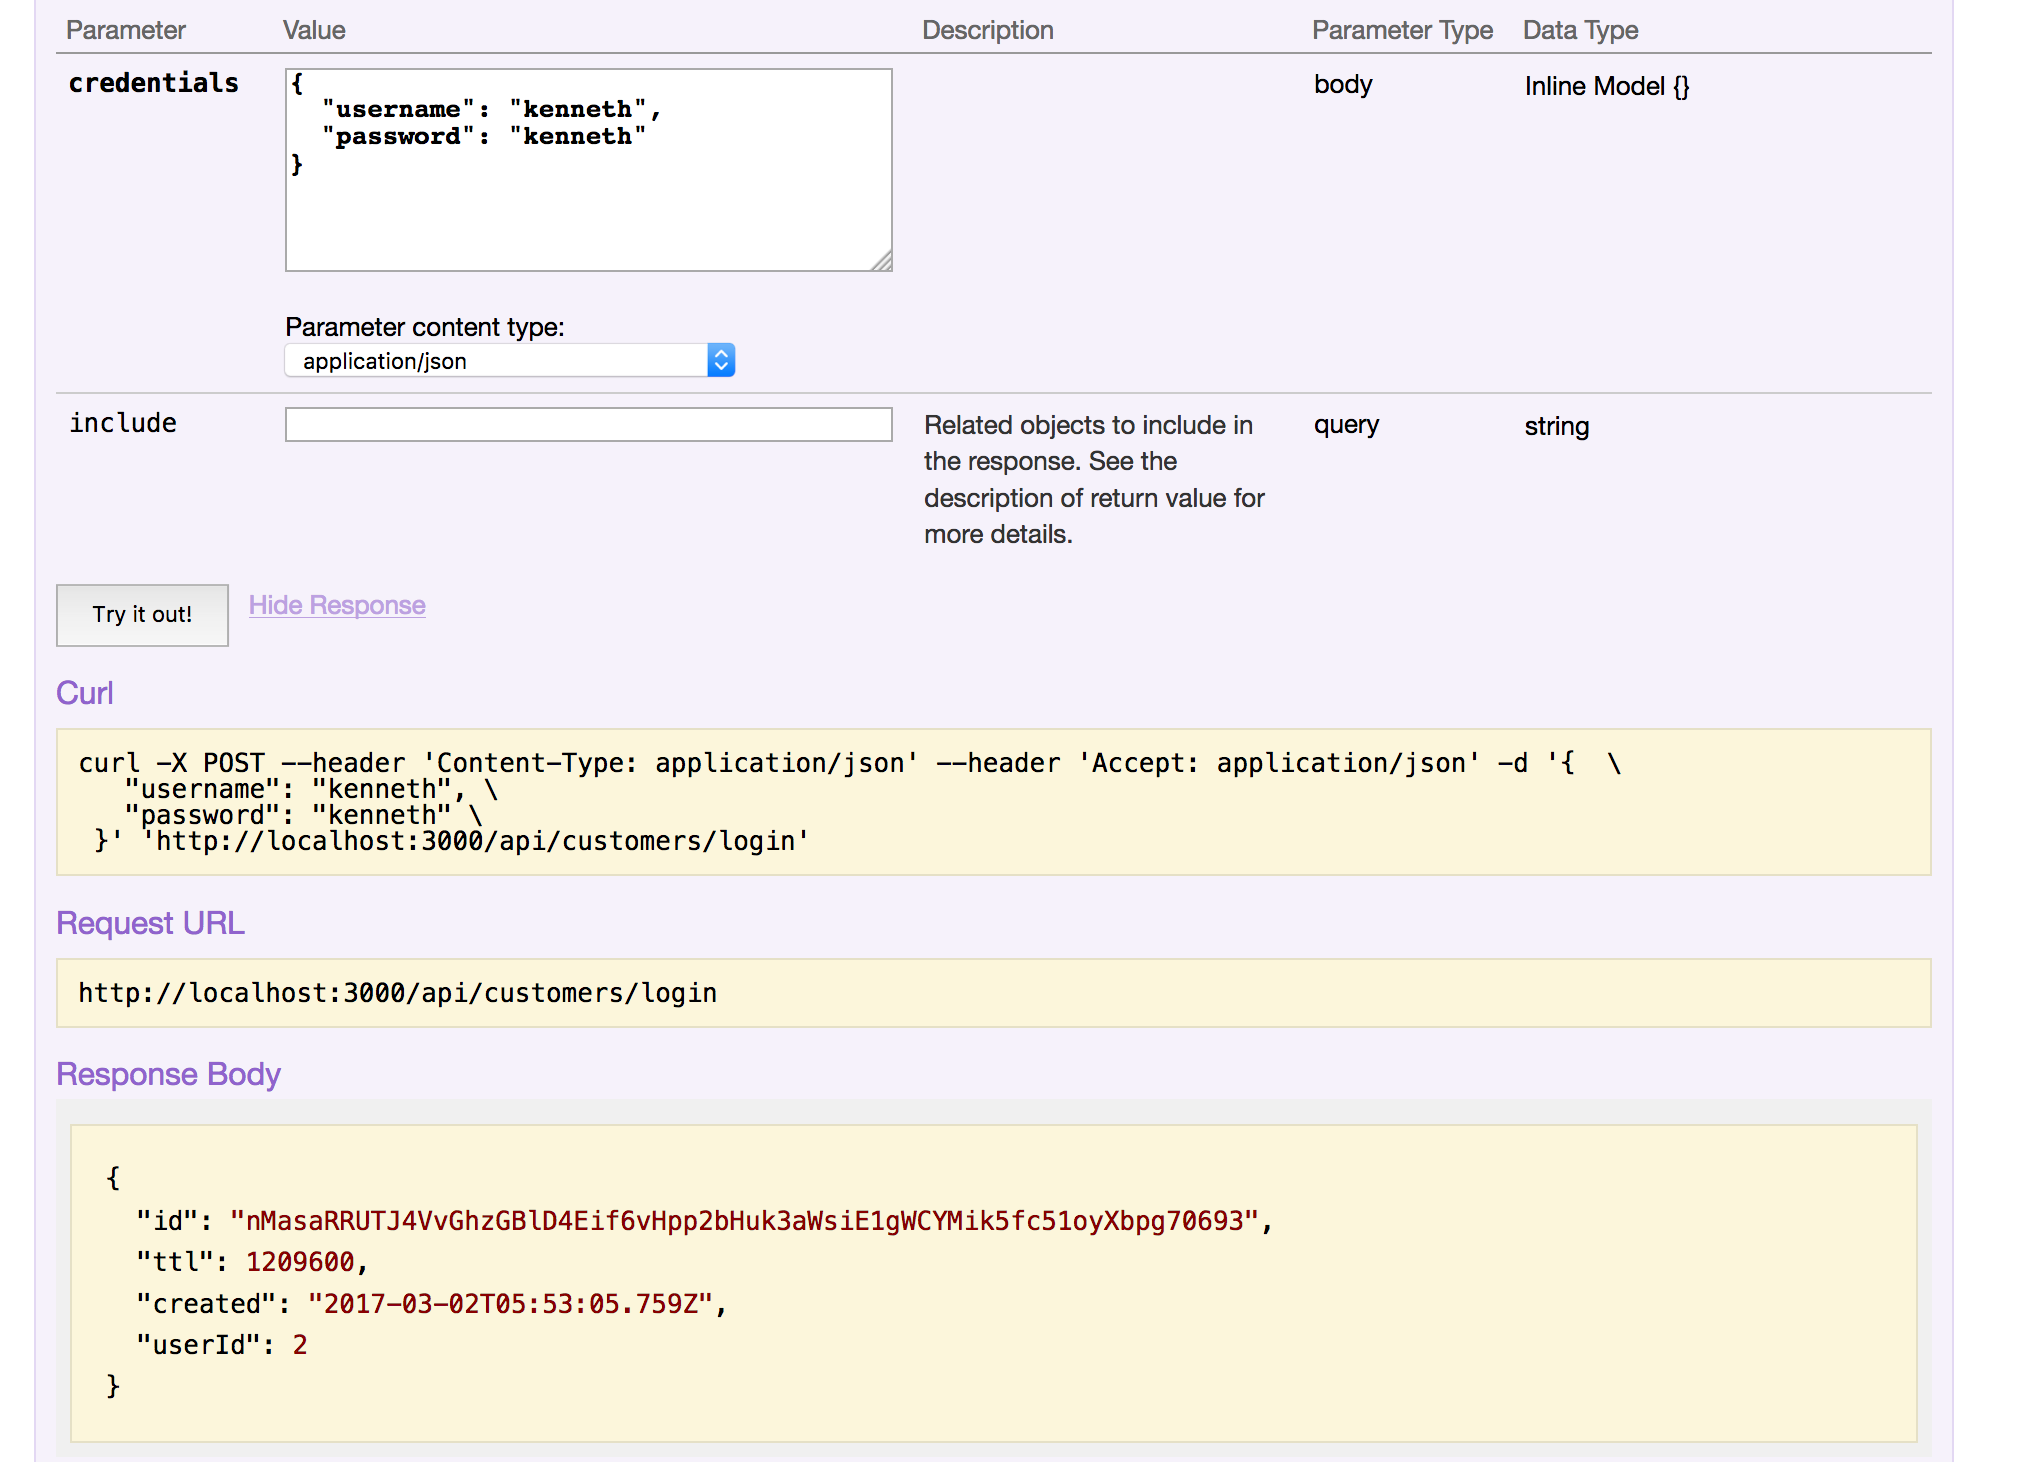
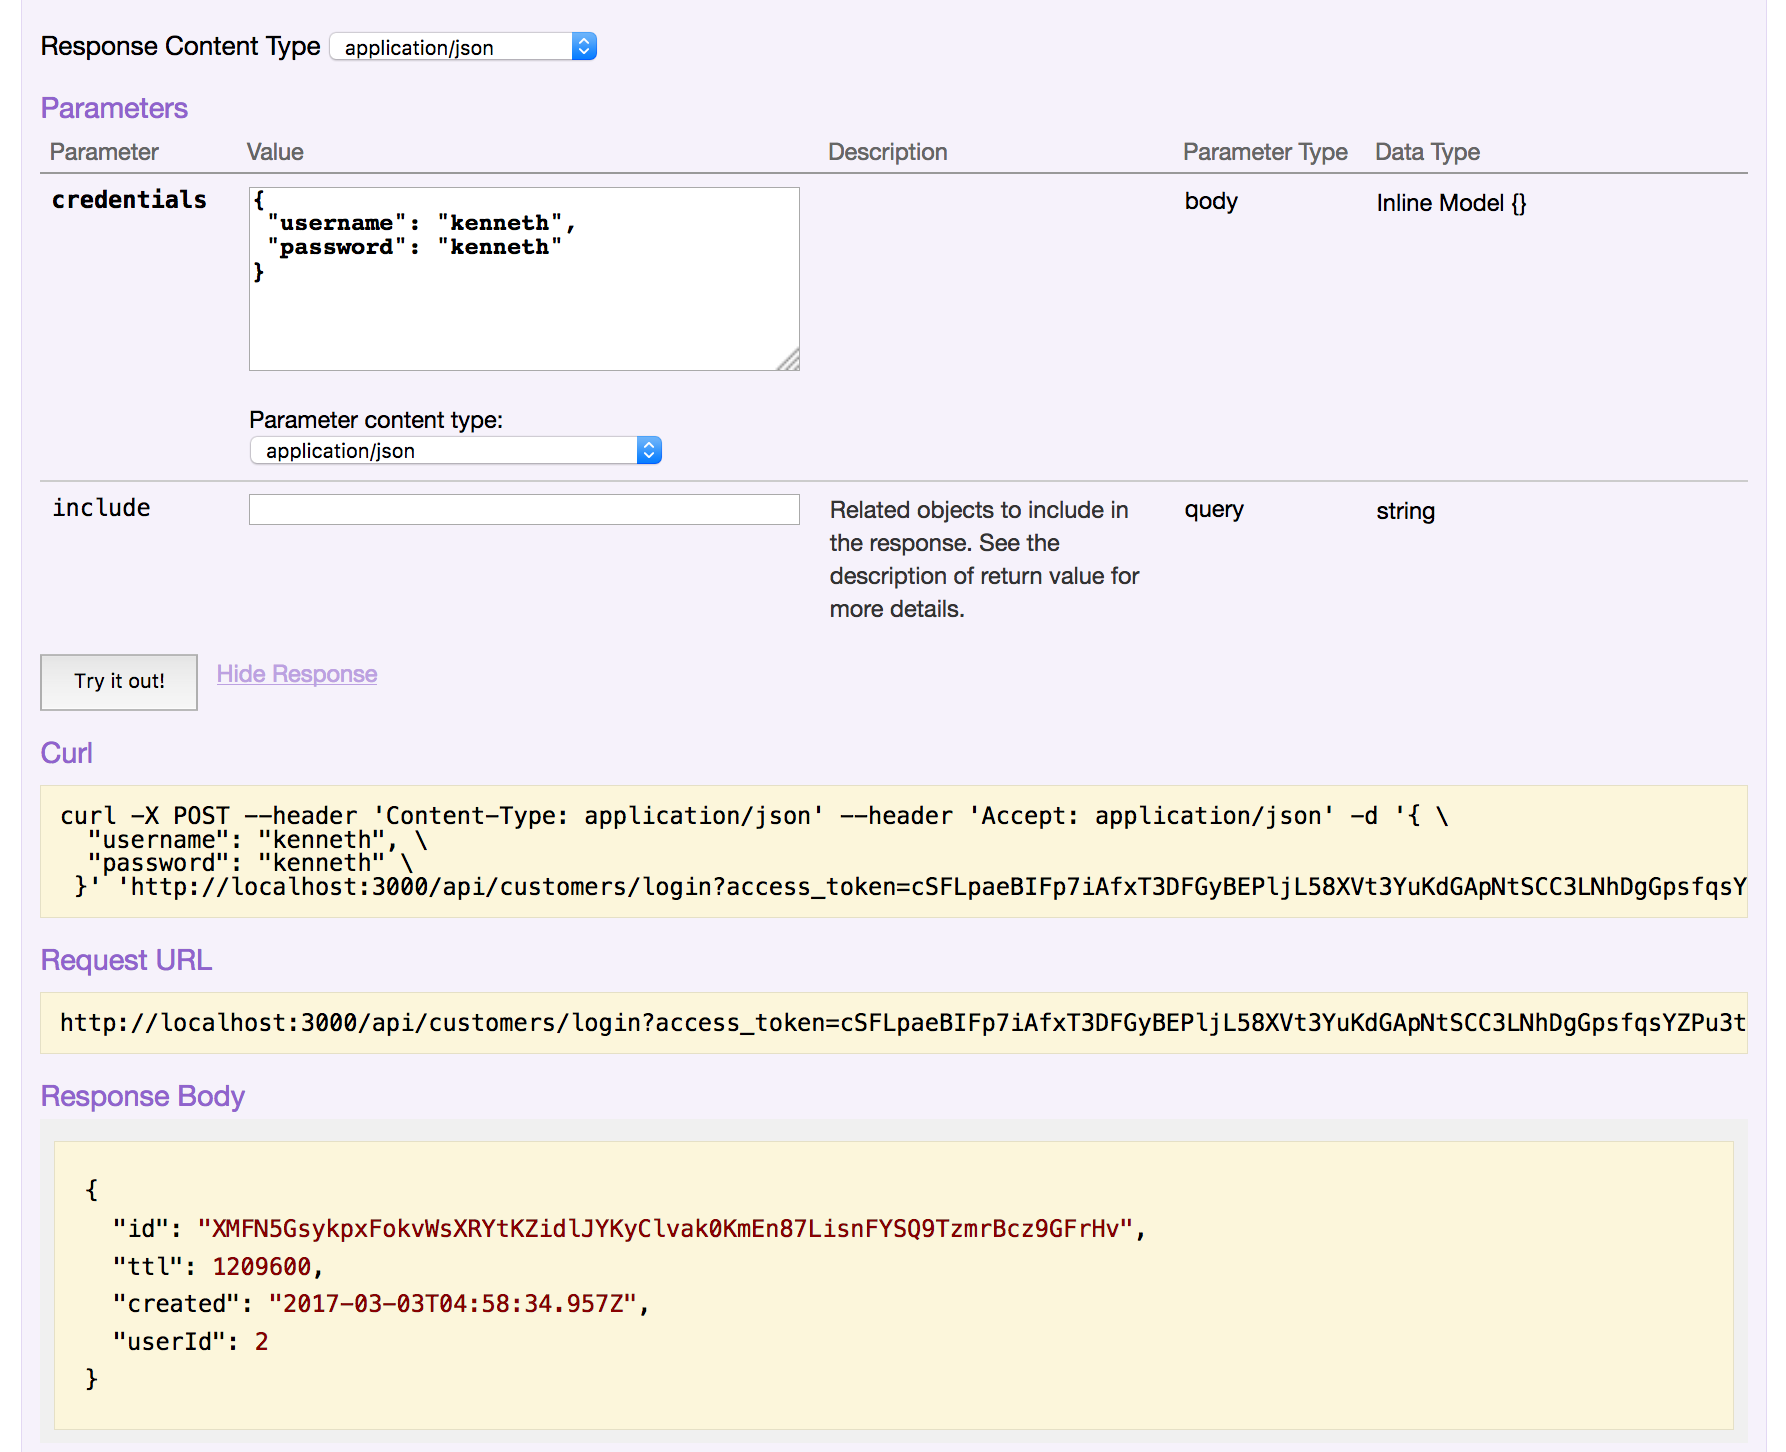
Add security

diff --git a/README.md b/README.md
@@ -306,17 +306,18 @@ them directly. We will create a customer model that extends from the User model.
 ? Custom plural form (used to build REST URL): 
 ? Common model or server only? server
 Let's add some customer properties now.
+
 Enter an empty property name when done.
 ? Property name: name
    invoke   loopback:property
 ? Property type: string
 ? Required? No
-? Default value[leave blank for none]:
+? Default value[leave blank for none]: 
+
 Let's add another customer property.
 Enter an empty property name when done.
-? Property name:
-lb relation naar reservations
-``` 
+? Property name: 
+```
 
 Customers can have zero or more reservations. Let's create a relation here, `lb relation`:
 
@@ -385,11 +386,10 @@ Setting the 'public' property to false means that they will not be public and wi
 }
 ```
 
-
 We will now add 3 users to application: 
 
-- Andy, our administrator : (username: andy, password: andy)
-- Kenneth, a customer : (username: kenneth, password: kenneth)
+- Andy, our administrator : (username: andy, password: andy)
+- Kenneth, a customer : (username: kenneth, password: kenneth)
 - Claudiu, another customer: (username: claudiu, password: claudiu)
 
 The passwords need to be hashed in the db.json file. We also link our reservations to our customers.
@@ -470,10 +470,10 @@ Now allow everybody to view the campgrounds, `lb acl`
 
 ```
 
-Also, allow every customer to see his/her own reservations, `lb acl`:
+Also, allow every customer to their own info, `lb acl`:
 
 ```
-? Select the model to apply the ACL entry to: reservation
+? Select the model to apply the ACL entry to: customer
 ? Select the ACL scope: All methods and properties
 ? Select the access type: All (match all types)
 ? Select the role The user owning the object
@@ -498,4 +498,30 @@ We will now log in as Kenneth to see his reservations. Go to http://localhost:30
 and log in: 
 
 ![Login](./login.png)
+
+The id of the response is a generated access token. You can now copy it and set it in the header to provide the access 
+token for all calls in the API Explorer. 
+
+![Login](./token.png)
+
+Or you can add the access token as a request parameter. Let's try this out. 
+
+
+- As Kenneth, I can see my own reservations: 
+  `/api/customers/2/reservations?access_token=XMFN5GsykpxFokvWsXRYtKZidlJYKyClvak0KmEn87LisnFYSQ9TzmrBcz9GFrHv
+
+- Asking Claudiu's reservations results in an 401 unauthorized: 
+  `/api/customers/3/reservations?access_token=XMFN5GsykpxFokvWsXRYtKZidlJYKyClvak0KmEn87LisnFYSQ9TzmrBcz9GFrHv`
+  
+- As Claudiu, I can see my own reservation: 
+  `/api/customers/3/reservations?access_token=v51y2iZa1nkKTWC7s1yKELaIatfDJPVxcEEVa6FFIG4llZCGyZVbwR4plhfpYAxx`
+  
+- But I can't see Kenneth's reservations:
+  `/api/customers/2/reservations?access_token=v51y2iZa1nkKTWC7s1yKELaIatfDJPVxcEEVa6FFIG4llZCGyZVbwR4plhfpYAxx`
+  
+- As Andy, I can Kenneth's reservations: 
+  `/api/customers/2/reservations?access_token=okxVkWcdoVzWb3WmCK9KkiuBArz1HOOHrIn1h2mOfa0kBzeUna1V9wFmFRe6BCHe`
+  
+- And also Claudiu's reservations: 
+  `/api/customers/3/reservations?access_token=okxVkWcdoVzWb3WmCK9KkiuBArz1HOOHrIn1h2mOfa0kBzeUna1V9wFmFRe6BCHe`
  
